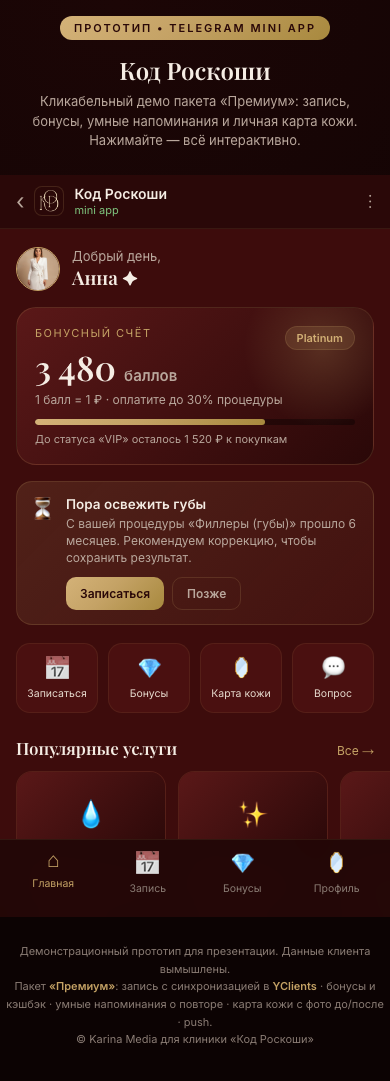
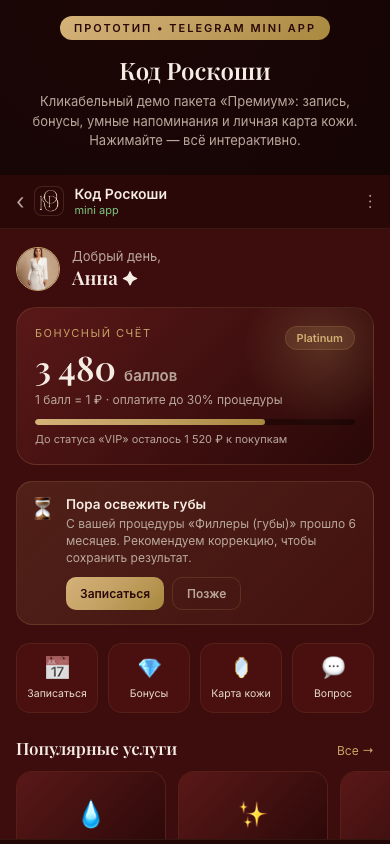
[agent] fix: hero-скриншоты по ширине экрана вместо длинных full-page

diff --git a/sales-kit/bot-vercel/api/bot.js b/sales-kit/bot-vercel/api/bot.js
@@ -20,7 +20,7 @@ const storage = {
   },
 };
 
-const shot = (img) => `${BASE}/shots/${img}`;
+const shot = (img) => `${BASE}/shots/${img}?v=2`;
 
 // --- Работы по нишам ---
 const NICHES = {
